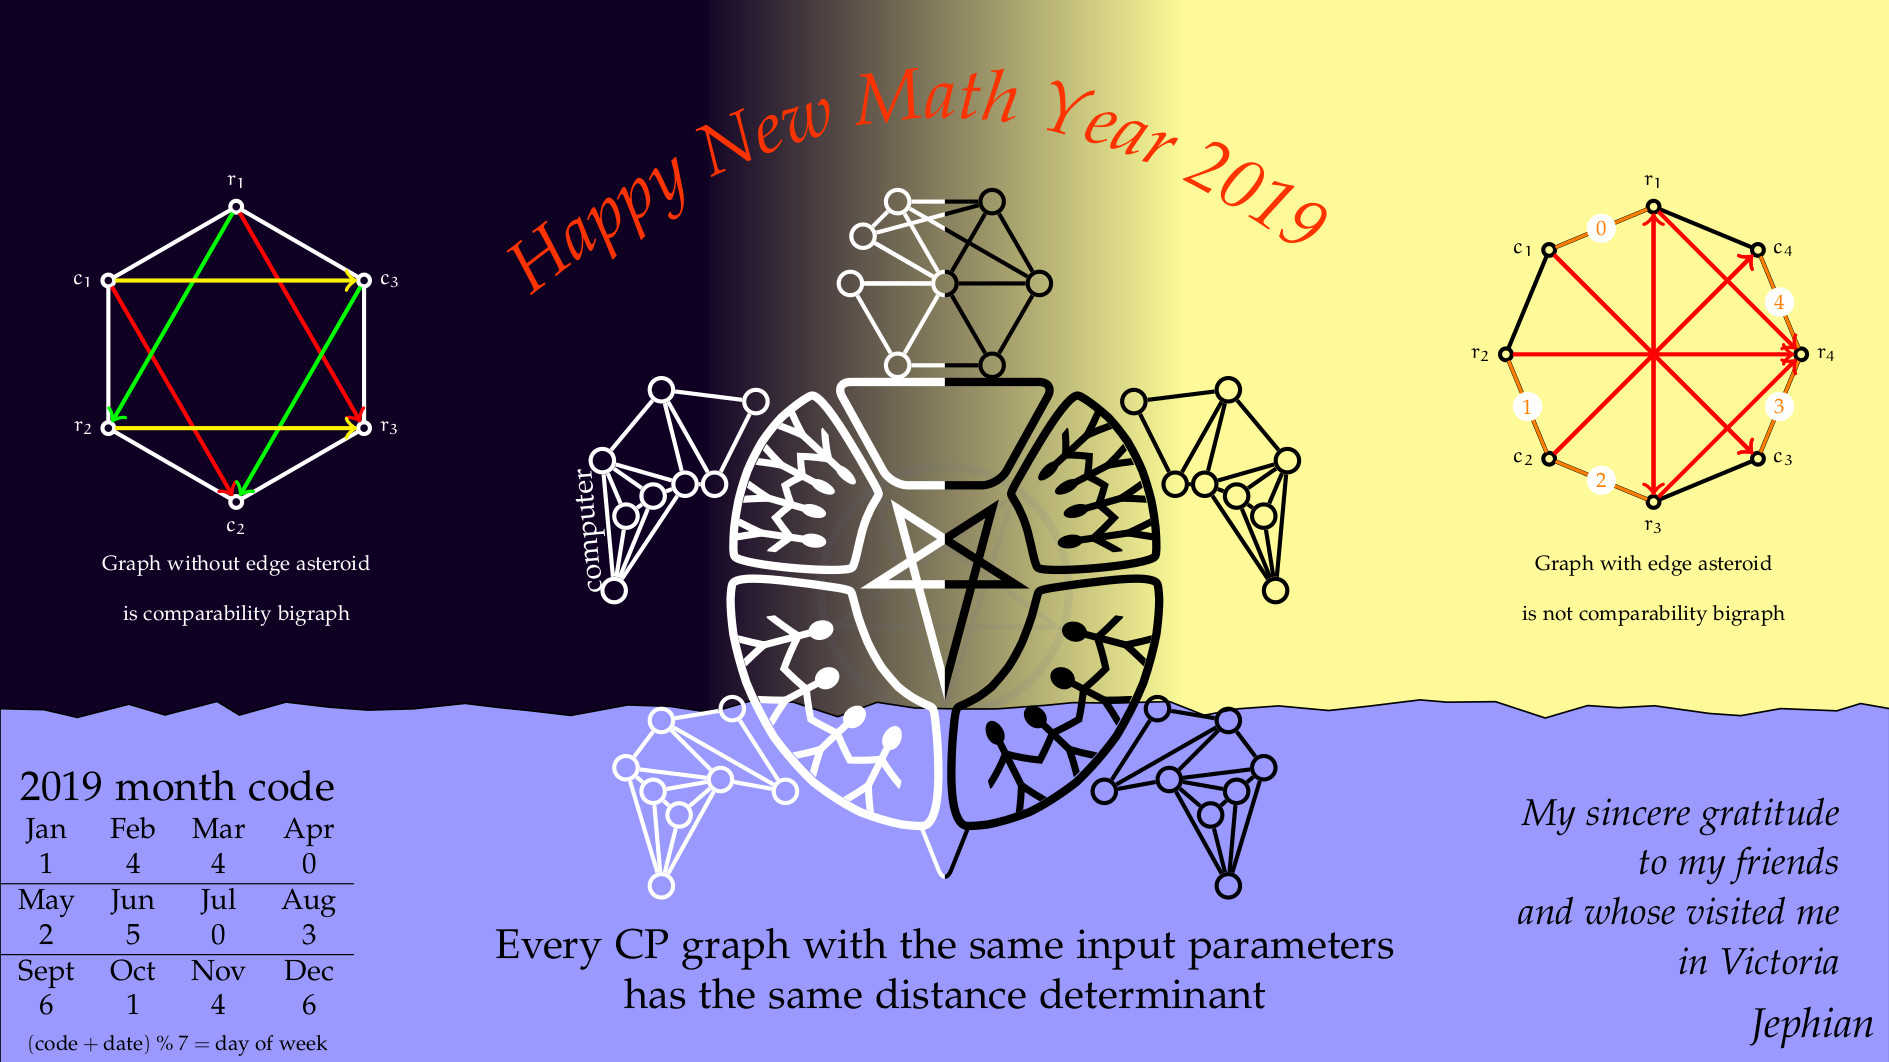
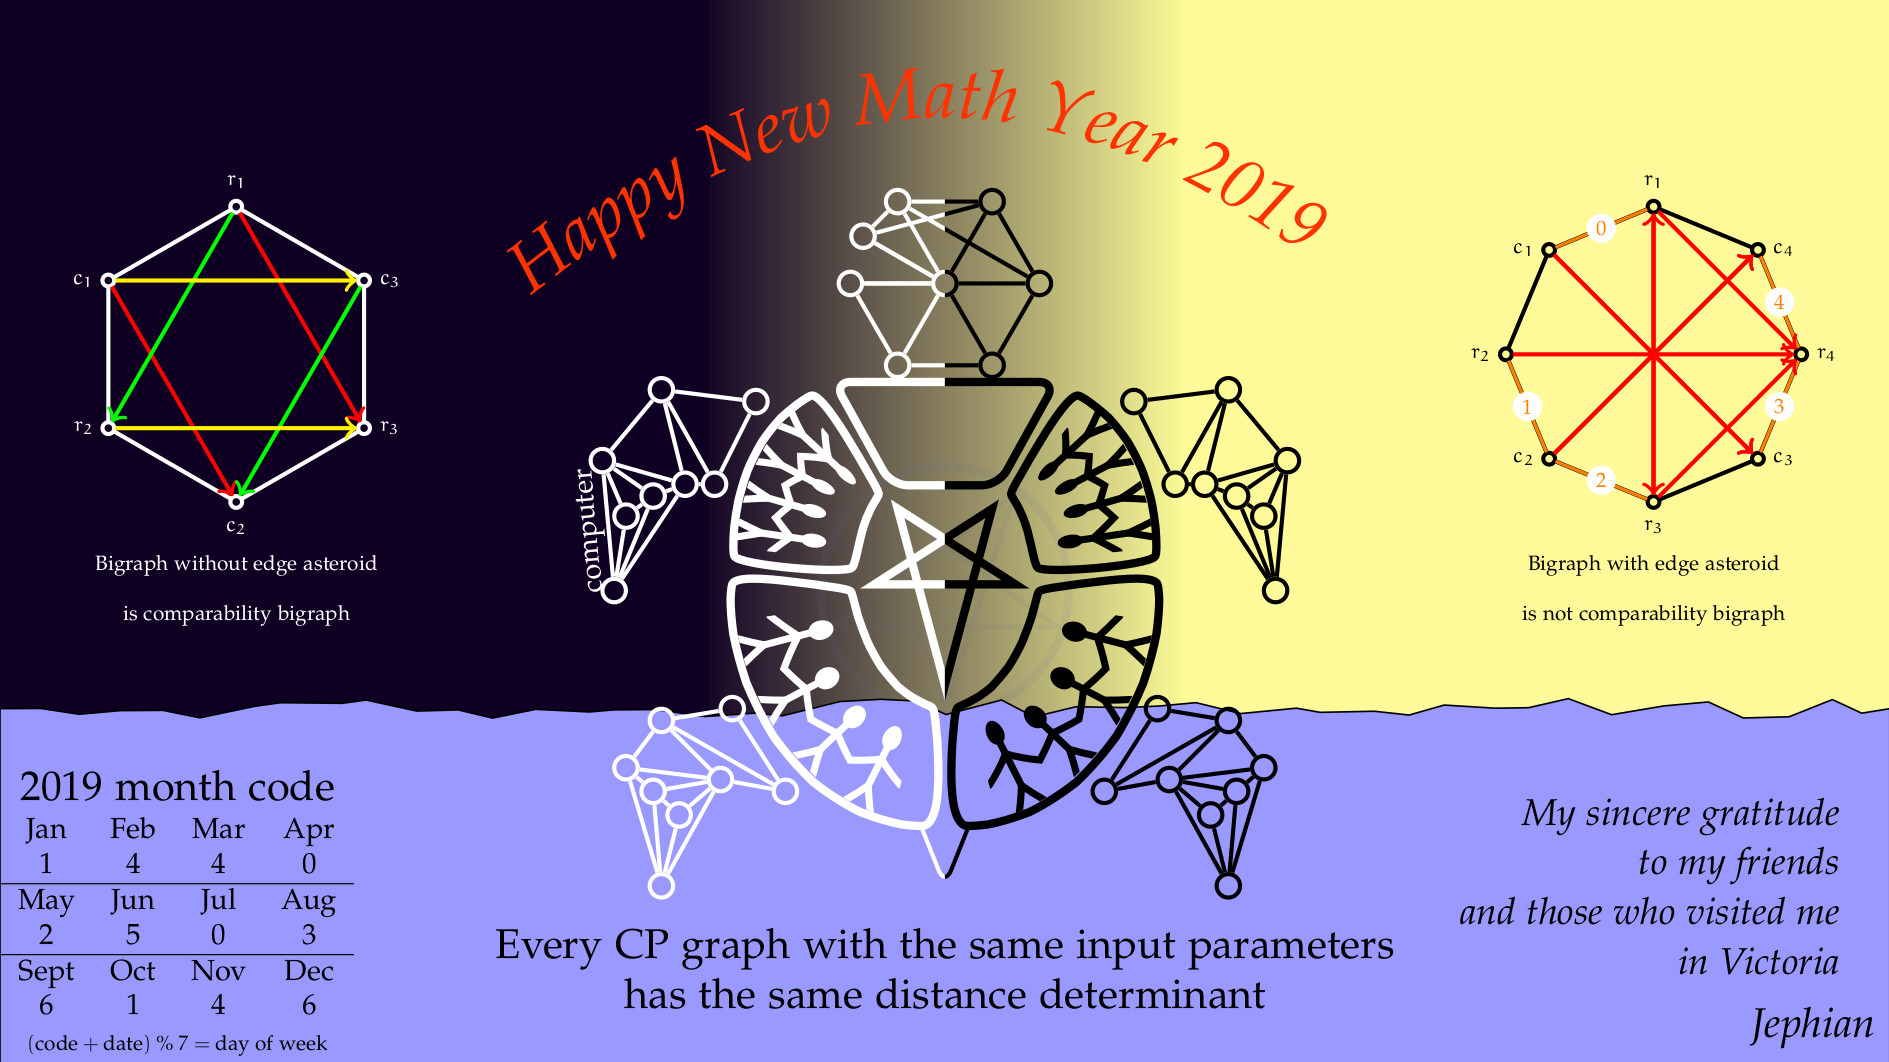
2019 done

diff --git a/NewYearCards/2019PigNewYear/2019PigNewYear.tex b/NewYearCards/2019PigNewYear/2019PigNewYear.tex
@@ -350,7 +350,7 @@ family/.pic={
 }
 \end{scope}
 
-\node[align=center] at (6,0) {\tiny Graph with edge asteroid\\ \tiny is not comparability bigraph}; 
+\node[align=center] at (6,0) {\tiny Bigraph with edge asteroid\\ \tiny is not comparability bigraph}; 
 
 %%% C6: without edge asteroid
 \begin{scope}[white, every node/.style={circle, draw, inner sep=2pt, fill=none}, line width=1pt, shift={(-6,2)}, scale=0.5, transform shape]
@@ -374,10 +374,10 @@ family/.pic={
 
 \end{scope}
 
-\node[align=center] at (-6,0) {\tiny\color{white} Graph without edge asteroid\\ \tiny\color{white} is comparability bigraph}; 
+\node[align=center] at (-6,0) {\tiny\color{white} Bigraph without edge asteroid\\ \tiny\color{white} is comparability bigraph}; 
 
 %%% gratitude
-\node[yshift=1.5cm, xshift=-0.3cm, left,align=right] at (Dominican) {\it\small My sincere gratitude\\ \it\small to my friends\\ \it\small and whose visited me\\ \it\small in Victoria};
+\node[yshift=1.5cm, xshift=-0.3cm, left,align=right] at (Dominican) {\it\small My sincere gratitude\\ \it\small to my friends\\ \it\small and those who visited me\\ \it\small in Victoria};
 
 
 \end{pgfonlayer}
